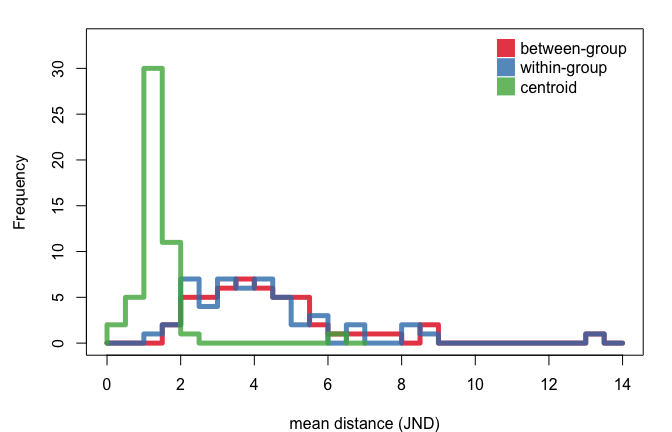
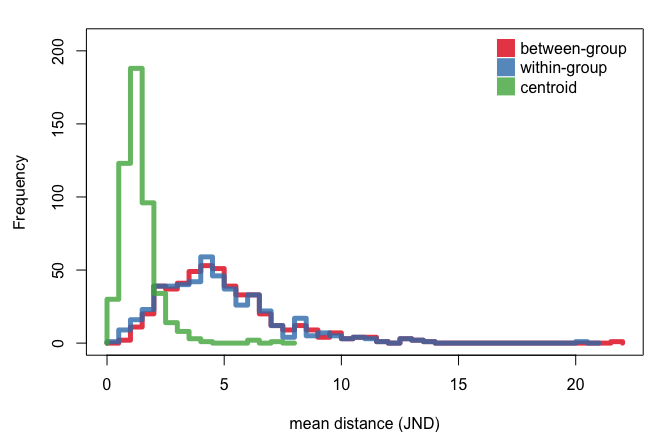
final simulations?

diff --git a/Rmd/sims_final.md b/Rmd/sims_final.md
@@ -107,7 +107,7 @@ Scenario 3
 Generate data
 
 ``` r
-simulatedata <- replicate(50, 
+simulatedata <- replicate(500, 
                   simdich(N=50, sgsqsrate=4, multiplier=c(0.85, 1.15)), 
                   simplify=FALSE)
 
@@ -130,9 +130,9 @@ centdist <- unlist(parallel::mclapply(simulatedata, centroidist, mc.cores=6))
 gc()
 ```
 
-    ##            used  (Mb) gc trigger  (Mb) max used  (Mb)
-    ## Ncells  1316927  70.4    2164898 115.7  1681103  89.8
-    ## Vcells 14568823 111.2   23786444 181.5 19646627 149.9
+    ##             used  (Mb) gc trigger   (Mb)  max used   (Mb)
+    ## Ncells   1511777  80.8    2637877  140.9   1770749   94.6
+    ## Vcells 128524431 980.6  196607064 1500.0 177902902 1357.3
 
 ![](../output/figures/finalsims/fs_unnamed-chunk-2-1.png)
 
